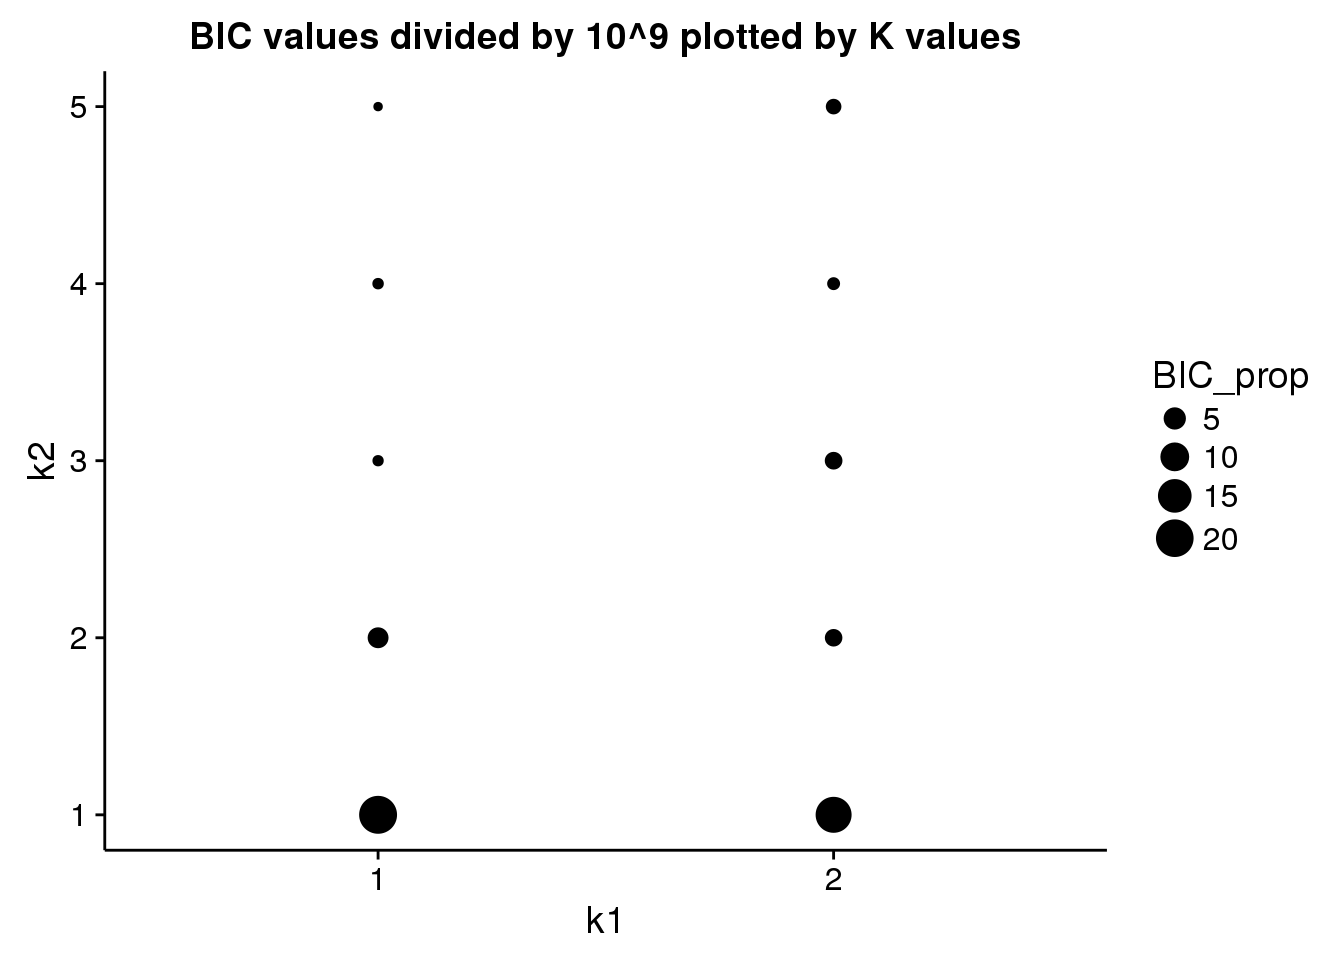
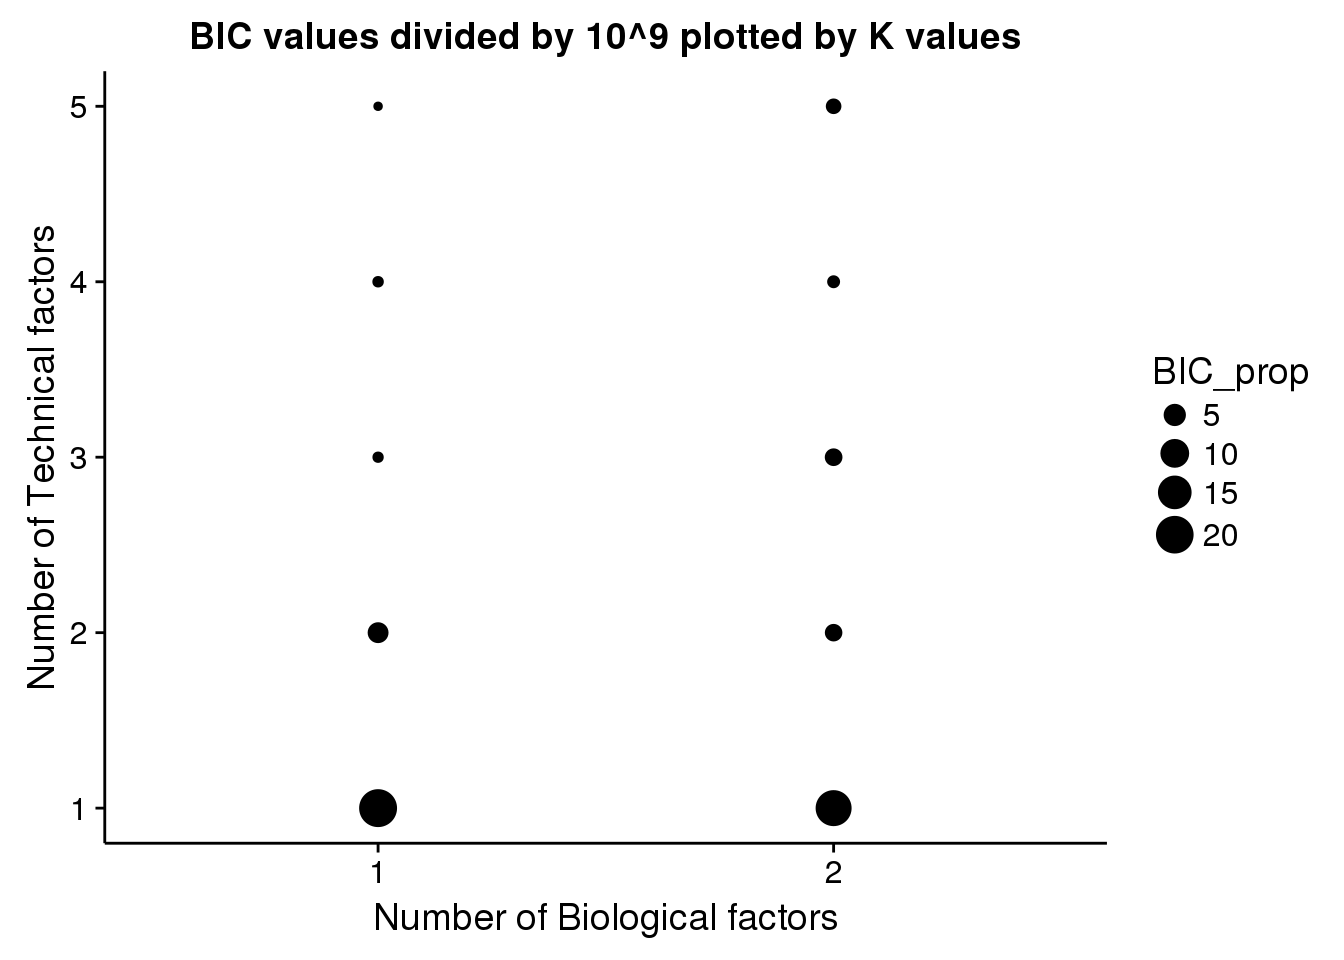
Build site.

diff --git a/docs/sc_only_ind.html b/docs/sc_only_ind.html
@@ -11,9 +11,8 @@
 
 <meta name="author" content="Briana Mittleman" />
 
-<meta name="date" content="2017-03-02" />
 
-<title>Explore biological significance of single cell only genes</title>
+<title>Look at single cell only genes by individual</title>
 
 <script src="site_libs/jquery-1.11.3/jquery.min.js"></script>
 <meta name="viewport" content="width=device-width, initial-scale=1" />
@@ -302,9 +301,9 @@ div.tocify {
 
 
 
-<h1 class="title toc-ignore">Explore biological significance of single cell only genes</h1>
+<h1 class="title toc-ignore">Look at single cell only genes by individual</h1>
 <h4 class="author"><em>Briana Mittleman</em></h4>
-<h4 class="date"><em>2017-03-02</em></h4>
+<h4 class="date"><em>2017/03/03</em></h4>
 
 </div>
 
@@ -336,91 +335,102 @@ molecules &lt;- read.table(&quot;../../singleCellSeq/data/molecules.txt&quot;, h
 reads_bulk &lt;- read.table(&quot;../../singleCellSeq/data/reads-bulk.txt&quot;, header = TRUE, stringsAsFactors = FALSE)</code></pre>
 <p>Create vectors with the list of genes in each set.</p>
 <pre class="r"><code>genes_observed_reads_bulk &lt;- rownames(reads_bulk)[rowSums(reads_bulk) &gt; 0]
+genes_observed_reads_bulk_ENSG= genes_observed_reads_bulk[grep(&quot;ERCC&quot;, genes_observed_reads_bulk, invert = TRUE)]
 genes_observed_reads &lt;- rownames(reads)[rowSums(reads) &gt; 0]
 genes_observed_molecules &lt;- rownames(molecules)[rowSums(molecules) &gt; 0]
-genes_observed_molecules_ENSG &lt;- genes_observed_molecules[grep(&quot;ERCC&quot;, genes_observed_molecules, invert = TRUE)]
-write.table(genes_observed_molecules_ENSG, file = &quot;../output/gene-observed-molecules-ensg.txt&quot;, quote = FALSE, row.names = FALSE)
-single_cell_observed &lt;- union(genes_observed_molecules, genes_observed_molecules)</code></pre>
+genes_observed_molecules_ENSG &lt;- genes_observed_molecules[grep(&quot;ERCC&quot;, genes_observed_molecules, invert = TRUE)]</code></pre>
 <div id="genes-only-in-single-cell-molecules" class="section level4">
 <h4>Genes only in single cell molecules</h4>
-<pre class="r"><code>gene_onlysinglecell &lt;- setdiff(single_cell_observed,genes_observed_reads_bulk)
+<pre class="r"><code>gene_onlysinglecell_ENSG &lt;- setdiff(genes_observed_molecules_ENSG,genes_observed_reads_bulk_ENSG)
 #subset molecules by these genes  
 molecules_df= data.frame(molecules)
-molecules_only_SC &lt;- molecules_df[rownames(molecules_df) %in% gene_onlysinglecell,]</code></pre>
+molecules_only_SC_ENSG &lt;- molecules_df[rownames(molecules_df) %in% gene_onlysinglecell_ENSG,]
+dim(molecules_only_SC_ENSG)</code></pre>
+<pre><code>[1] 956 864</code></pre>
 <p>Count number of cells we see these genes in</p>
-<pre class="r"><code>non_zero_cells &lt;- apply(molecules_only_SC, 1, function(c)sum(c!=0))
+<pre class="r"><code>non_zero_cells_ENSG &lt;- apply(molecules_only_SC_ENSG, 1, function(c)sum(c!=0))
 
-molecules_with_nonzero &lt;- cbind(molecules_only_SC, non_zero_cells)
+molecules_with_nonzero_ENSG &lt;- cbind(molecules_only_SC_ENSG, non_zero_cells_ENSG)
 
-summary(molecules_with_nonzero$non_zero_cells)</code></pre>
+summary(molecules_with_nonzero_ENSG$non_zero_cells_ENSG)</code></pre>
 <pre><code>   Min. 1st Qu.  Median    Mean 3rd Qu.    Max. 
-   1.00    1.00    2.00    3.11    3.50  112.00 </code></pre>
-<pre class="r"><code>genes_most_expressed= row.names(molecules_with_nonzero[molecules_with_nonzero$non_zero_cells &gt; 20, 1:3])
-genes_most_expressed</code></pre>
-<pre><code>[1] &quot;ENSG00000121318&quot; &quot;ENSG00000011465&quot; &quot;ENSG00000214324&quot; &quot;ENSG00000204296&quot;
-[5] &quot;ENSG00000230062&quot; &quot;ENSG00000176571&quot; &quot;ERCC-00048&quot;      &quot;ERCC-00083&quot;     
-[9] &quot;ERCC-00164&quot;     </code></pre>
-<pre class="r"><code>ensembl &lt;- useMart(host = &quot;grch37.ensembl.org&quot;,
-                   biomart = &quot;ENSEMBL_MART_ENSEMBL&quot;,
-                   dataset = &quot;hsapiens_gene_ensembl&quot;)
-
-genes_most_expressed_info &lt;- getBM(attributes = c(&quot;ensembl_gene_id&quot;, &quot;chromosome_name&quot;,
-                                                 &quot;external_gene_name&quot;, &quot;transcript_count&quot;,&quot;description&quot;), filters = &quot;ensembl_gene_id&quot;, values = genes_most_expressed[grep(&quot;ENSG&quot;, genes_most_expressed)],mart = ensembl)
-genes_most_expressed_info</code></pre>
-<pre><code>  ensembl_gene_id chromosome_name external_gene_name transcript_count
-1 ENSG00000011465              12                DCN               22
-2 ENSG00000121318              12            TAS2R10                1
-3 ENSG00000176571               8              CNBD1                6
-4 ENSG00000204296               6            C6orf10                8
-5 ENSG00000214324               3            C3orf56                1
-6 ENSG00000230062               6            ANKRD66                3
-                                                                   description
-1                                        decorin [Source:HGNC Symbol;Acc:2705]
-2             taste receptor, type 2, member 10 [Source:HGNC Symbol;Acc:14918]
-3 cyclic nucleotide binding domain containing 1 [Source:HGNC Symbol;Acc:26663]
-4            chromosome 6 open reading frame 10 [Source:HGNC Symbol;Acc:13922]
-5            chromosome 3 open reading frame 56 [Source:HGNC Symbol;Acc:32481]
-6                      ankyrin repeat domain 66 [Source:HGNC Symbol;Acc:44669]</code></pre>
-<pre class="r"><code>genes_not_singleton= row.names(molecules_with_nonzero[molecules_with_nonzero$non_zero_cells &gt; 1, 1:3])</code></pre>
-<pre class="r"><code>not_singleton_genes_info &lt;- getBM(attributes = c(&quot;ensembl_gene_id&quot;, &quot;chromosome_name&quot;,
-                                                 &quot;external_gene_name&quot;, &quot;transcript_count&quot;,&quot;description&quot;), filters = &quot;ensembl_gene_id&quot;, values = genes_not_singleton[grep(&quot;ENSG&quot;, genes_not_singleton)],mart = ensembl)
-head(not_singleton_genes_info)</code></pre>
-<pre><code>  ensembl_gene_id chromosome_name external_gene_name transcript_count
-1 ENSG00000005981               7               ASB4                3
-2 ENSG00000007216              17            SLC13A2                8
-3 ENSG00000007908               1               SELE               11
-4 ENSG00000011465              12                DCN               22
-5 ENSG00000012504              12              NR1H4                9
-6 ENSG00000019169               2              MARCO                4
-                                                                                                     description
-1                                        ankyrin repeat and SOCS box containing 4 [Source:HGNC Symbol;Acc:16009]
-2 solute carrier family 13 (sodium-dependent dicarboxylate transporter), member 2 [Source:HGNC Symbol;Acc:10917]
-3                                                                      selectin E [Source:HGNC Symbol;Acc:10718]
-4                                                                          decorin [Source:HGNC Symbol;Acc:2705]
-5                                  nuclear receptor subfamily 1, group H, member 4 [Source:HGNC Symbol;Acc:7967]
-6                                   macrophage receptor with collagenous structure [Source:HGNC Symbol;Acc:6895]</code></pre>
+  1.000   1.000   2.000   2.899   3.000  45.000 </code></pre>
 </div>
 </div>
-<div id="go-analysis" class="section level3">
-<h3>GO analysis</h3>
-<p><a href="https://github.com/jdblischak/singleCellSeq/blob/master/analysis/cv-adjusted-profile-annotation.Rmd" class="uri">https://github.com/jdblischak/singleCellSeq/blob/master/analysis/cv-adjusted-profile-annotation.Rmd</a><br />
-<a href="https://github.com/jhsiao999/Humanzee/blob/master/R/GOtest.R" class="uri">https://github.com/jhsiao999/Humanzee/blob/master/R/GOtest.R</a></p>
-<pre class="r"><code>not_singleton_genes_GO&lt;- GOtest(my_ensembl_gene_universe = rownames(molecules),
-                      my_ensembl_gene_test =row.names(molecules_with_nonzero[molecules_with_nonzero$non_zero_cells &gt; 1, ]),
-                      pval_cutoff = 1, ontology=c(&quot;BP&quot;) )
+<div id="individual-19098" class="section level3">
+<h3>Individual 19098</h3>
+<pre class="r"><code>molecules_SC_ENSG_19098= molecules_with_nonzero_ENSG[,grep(&quot;19098&quot;, colnames(molecules_with_nonzero_ENSG))]
+# this is a dataframe for the sc only genes in 19098
+dim(molecules_SC_ENSG_19098)</code></pre>
+<pre><code>[1] 956 288</code></pre>
+<pre class="r"><code>non_zero_cells_ENSG_19098 &lt;- apply(molecules_SC_ENSG_19098, 1, function(c)sum(c!=0))
+molecules_with_nonzero_ENSG_19098 &lt;- cbind(molecules_SC_ENSG_19098, non_zero_cells_ENSG_19098)
 
+summary(molecules_with_nonzero_ENSG_19098$non_zero_cells_ENSG_19098)</code></pre>
+<pre><code>   Min. 1st Qu.  Median    Mean 3rd Qu.    Max. 
+ 0.0000  0.0000  1.0000  0.8923  1.0000 13.0000 </code></pre>
+<pre class="r"><code>plot(molecules_with_nonzero_ENSG_19098$non_zero_cells_ENSG_19098)</code></pre>
+<p><img src="figure/sc_only_ind.Rmd/unnamed-chunk-6-1.png" width="672" style="display: block; margin: auto;" /></p>
+</div>
+<div id="individual-19101" class="section level3">
+<h3>Individual 19101</h3>
+<pre class="r"><code>molecules_SC_ENSG_19101= molecules_with_nonzero_ENSG[,grep(&quot;19101&quot;, colnames(molecules_with_nonzero_ENSG))]
+# this is a dataframe for the sc only genes in 19101
 
-gene_names &lt;- row.names(molecules_with_nonzero[molecules_with_nonzero$non_zero_cells &gt; 1, ])
-gene_names_ensg &lt;- gene_names[grep(&quot;ERCC&quot;, gene_names, invert = TRUE)]
-write.table(gene_names_ensg, file = &quot;../output/gene-ensg.txt&quot;, quote = FALSE)
+dim(molecules_SC_ENSG_19101)</code></pre>
+<pre><code>[1] 956 288</code></pre>
+<pre class="r"><code>non_zero_cells_ENSG_19101 &lt;- apply(molecules_SC_ENSG_19101, 1, function(c)sum(c!=0))
+molecules_with_nonzero_ENSG_19101 &lt;- cbind(molecules_SC_ENSG_19101, non_zero_cells_ENSG_19101)
 
-save(not_singleton_genes_GO,file=&quot;../data/not_singleton_genes_GO.rda&quot;)</code></pre>
-<pre class="r"><code>load(&quot;../data/not_singleton_genes_GO.rda&quot;)
-goterms_SC &lt;- summary(not_singleton_genes_GO$GO$BP, pvalue = .05)
-goterms_SC</code></pre>
-<pre><code>        Length          Class           Mode 
-             1 GOHyperGResult             S4 </code></pre>
-<p>Online GO analysis: <a href="http://consensuspathdb.org" class="uri">http://consensuspathdb.org</a></p>
+summary(molecules_with_nonzero_ENSG_19101$non_zero_cells_ENSG_19101)</code></pre>
+<pre><code>   Min. 1st Qu.  Median    Mean 3rd Qu.    Max. 
+  0.000   0.000   1.000   1.124   2.000  22.000 </code></pre>
+<pre class="r"><code>plot(molecules_with_nonzero_ENSG_19101$non_zero_cells_ENSG_19101)</code></pre>
+<p><img src="figure/sc_only_ind.Rmd/unnamed-chunk-7-1.png" width="672" style="display: block; margin: auto;" /></p>
+</div>
+<div id="individual-19239" class="section level3">
+<h3>Individual 19239</h3>
+<pre class="r"><code>molecules_SC_ENSG_19239= molecules_with_nonzero_ENSG[,grep(&quot;19239&quot;, colnames(molecules_with_nonzero_ENSG))]
+# this is a dataframe for the sc only genes in 19239
+
+dim(molecules_SC_ENSG_19239)</code></pre>
+<pre><code>[1] 956 288</code></pre>
+<pre class="r"><code>non_zero_cells_ENSG_19239 &lt;- apply(molecules_SC_ENSG_19239, 1, function(c)sum(c!=0))
+molecules_with_nonzero_ENSG_19239 &lt;- cbind(molecules_SC_ENSG_19239, non_zero_cells_ENSG_19239)
+
+summary(molecules_with_nonzero_ENSG_19239$non_zero_cells_ENSG_19239)</code></pre>
+<pre><code>   Min. 1st Qu.  Median    Mean 3rd Qu.    Max. 
+ 0.0000  0.0000  0.0000  0.8818  1.0000 34.0000 </code></pre>
+<pre class="r"><code>plot(molecules_with_nonzero_ENSG_19239$non_zero_cells_ENSG_19239)</code></pre>
+<p><img src="figure/sc_only_ind.Rmd/unnamed-chunk-8-1.png" width="672" style="display: block; margin: auto;" /></p>
+</div>
+<div id="compare-individuals" class="section level3">
+<h3>Compare individuals</h3>
+<p>I want to look at the genes that are expressed in these individuals and see if there are genes that are unique to one individual</p>
+<ul>
+<li><p>find genes with non_zero &gt; 1 (exclude singleton)</p></li>
+<li><p>make a list of these genes</p></li>
+<li><p>create a ven diagram with these genes</p></li>
+</ul>
+<pre class="r"><code>#19098
+genes_not_singleton_19098= row.names(molecules_with_nonzero_ENSG_19098[molecules_with_nonzero_ENSG_19098$non_zero_cells_ENSG_19098 &gt; 1, ])
+length(genes_not_singleton_19098)</code></pre>
+<pre><code>[1] 181</code></pre>
+<pre class="r"><code>#19101
+genes_not_singleton_19101= row.names(molecules_with_nonzero_ENSG_19101[molecules_with_nonzero_ENSG_19101$non_zero_cells_ENSG_19101 &gt; 1, ])
+length(genes_not_singleton_19101)</code></pre>
+<pre><code>[1] 241</code></pre>
+<pre class="r"><code>#19239
+genes_not_singleton_19239= row.names(molecules_with_nonzero_ENSG_19239[molecules_with_nonzero_ENSG_19239$non_zero_cells_ENSG_19239 &gt; 1, ])
+length(genes_not_singleton_19239)</code></pre>
+<pre><code>[1] 168</code></pre>
+<pre class="r"><code>non_sing_venn &lt;- venn.diagram(x = list(&quot;19098&quot; = genes_not_singleton_19098,
+                                    &quot;19101&quot; = genes_not_singleton_19101,
+                                    &quot;19239&quot; = genes_not_singleton_19239),
+                           filename = NULL, euler.d = FALSE, scaled = FALSE)
+grid.newpage()
+grid.draw(non_sing_venn)</code></pre>
+<p><img src="figure/sc_only_ind.Rmd/ven%20diagram-1.png" width="672" style="display: block; margin: auto;" /></p>
 </div>
 
 <hr>

diff --git a/docs/apply_citrus_singlecell.html b/docs/apply_citrus_singlecell.html
@@ -309,8 +309,8 @@ div.tocify {
 </div>
 
 
-<p><strong>Last updated:</strong> 2017-03-02</p>
-<p><strong>Code version:</strong> 3ce427b</p>
+<p><strong>Last updated:</strong> 2017-03-03</p>
+<p><strong>Code version:</strong> 6da6895</p>
 <p>In this analysis I will use the scPLS method in the Citrus package to regress technical factor out of the single cell data. I will use filtered molecule counts for the first individual in the dataset.</p>
 <pre class="r"><code>library(&quot;Citrus&quot;)
 library(reshape2)
@@ -394,7 +394,7 @@ ff &lt;- ggplot2.barplot(data = df, xName = &quot;Quantile&quot;, yName = &quot;
 
 ff</code></pre>
 <pre><code>Warning: Removed 3 rows containing missing values (position_stack).</code></pre>
-<p><img src="figure/apply_citrus_singlecell.Rmd/unnamed-chunk-67-1.png" width="672" style="display: block; margin: auto;" /></p>
+<p><img src="figure/apply_citrus_singlecell.Rmd/unnamed-chunk-48-1.png" width="672" style="display: block; margin: auto;" /></p>
 <pre class="r"><code>celltypes &lt;- str_split_fixed(row.names(molecules_cpm_19101t), pattern= &quot;.[A-H]&quot;, n=3)[,2]
 
 pcs &lt;- prcomp(molecules_cpm_19101t, center = TRUE)
@@ -420,7 +420,7 @@ ytitle = &quot;PC2&quot;, mainTitle = &quot;ERCC technical effect removed&quot;,
 <div id="plot-output" class="section level3">
 <h3>Plot output</h3>
 <pre class="r"><code>plot_grid(ff1,ff2)</code></pre>
-<p><img src="figure/apply_citrus_singlecell.Rmd/unnamed-chunk-69-1.png" width="672" style="display: block; margin: auto;" /></p>
+<p><img src="figure/apply_citrus_singlecell.Rmd/unnamed-chunk-50-1.png" width="672" style="display: block; margin: auto;" /></p>
 </div>
 <div id="try-more-k-values" class="section level3">
 <h3>Try more k values</h3>
@@ -469,7 +469,7 @@ vary_k =data.frame(vary_k)</code></pre>
 6  3  2 -6.026e+08
 7  3  2 -6.026e+08</code></pre>
 <pre class="r"><code>ggplot2.scatterplot(data=vary_k, xName = &quot;k1&quot;, yName = &quot;k2&quot;, mapping=aes(size =(&quot;likelihood&quot;)),  backgroundColor=&quot;white&quot;)</code></pre>
-<p><img src="figure/apply_citrus_singlecell.Rmd/unnamed-chunk-70-1.png" width="672" style="display: block; margin: auto;" /></p>
+<p><img src="figure/apply_citrus_singlecell.Rmd/unnamed-chunk-51-1.png" width="672" style="display: block; margin: auto;" /></p>
 </div>
 <div id="do-something-to-compare-likliehood" class="section level3">
 <h3>Do something to compare likliehood</h3>
@@ -487,7 +487,7 @@ ytitle = &quot;PC2&quot;, mainTitle = &quot;ERCC technical effect removed, k2=2&
 &quot;bold&quot;, &quot;black&quot;), ytitleFont = c(10, &quot;bold&quot;, &quot;black&quot;), xTickLabelFont=c(10, &quot;bold&quot;, &quot;black&quot;), yTickLabelFont= c(10, &quot;bold&quot;, &quot;black&quot;), legendTitle= &quot;Cell type&quot;, legendTitleFont= c(10, &quot;bold&quot;, &quot;black&quot;), legendTextFont = c(10, &quot;bold&quot;, &quot;black&quot;) )
 
 ff3</code></pre>
-<p><img src="figure/apply_citrus_singlecell.Rmd/unnamed-chunk-71-1.png" width="672" style="display: block; margin: auto;" /></p>
+<p><img src="figure/apply_citrus_singlecell.Rmd/unnamed-chunk-52-1.png" width="672" style="display: block; margin: auto;" /></p>
 <ul>
 <li>need k1=1 and k2=1:5</li>
 </ul>
@@ -524,7 +524,7 @@ change4=(mean(summary(scPLS_tech.1.5$Likelihood))- mean(summary(scPLS_tech.1.4$L
 
 L_change= c(abs(change1), abs(change2), abs(change3), abs(change4))
 plot(L_change, ylab=&quot;Absolute value change in Likelihood&quot;, main=&quot;Compare k2 values 1-5&quot;)</code></pre>
-<p><img src="figure/apply_citrus_singlecell.Rmd/unnamed-chunk-72-1.png" width="672" style="display: block; margin: auto;" /></p>
+<p><img src="figure/apply_citrus_singlecell.Rmd/unnamed-chunk-53-1.png" width="672" style="display: block; margin: auto;" /></p>
 <p>Biggest improvement in likelihood is between k2=1 and k2=2.</p>
 <p><strong>DON’T USE THIS ANALYSIS FOR MODEL SELECTION, USE THE MIN BIC</strong></p>
 </div>
@@ -543,7 +543,7 @@ Bic5= log(ncells) * (6) - (2 * (mean(summary(scPLS_tech.1.5$Likelihood))))
 Bic_likelihood= c(Bic1,Bic2, Bic3, Bic4, Bic5)
 
 plot(Bic_likelihood, ylab=&quot;Bayesian information criterion&quot;, xlab=&quot;k2 value&quot;, main=&quot;With a constant k1 value, BIC decreases with k2 increase&quot;)</code></pre>
-<p><img src="figure/apply_citrus_singlecell.Rmd/unnamed-chunk-73-1.png" width="672" style="display: block; margin: auto;" /></p>
+<p><img src="figure/apply_citrus_singlecell.Rmd/unnamed-chunk-54-1.png" width="672" style="display: block; margin: auto;" /></p>
 <pre class="r"><code>which.min(Bic_likelihood)</code></pre>
 <pre><code>[1] 5</code></pre>
 <p>The smallest BIC is achieved when k2=5.</p>
@@ -587,7 +587,7 @@ groupName = &quot;Type&quot;, size = 5, backgroundColor = &quot;white&quot;, gro
 ytitle = &quot;PC2&quot;, mainTitle = &quot;k2=5&quot;, removePanelGrid = TRUE, removePanelBorder = TRUE, setShapeByGroupName = TRUE, showLegend = TRUE, mainTitleFont = c(10, &quot;bold&quot;, &quot;black&quot;), xtitleFont = c(10,
 &quot;bold&quot;, &quot;black&quot;), ytitleFont = c(10, &quot;bold&quot;, &quot;black&quot;), xTickLabelFont=c(10, &quot;bold&quot;, &quot;black&quot;), yTickLabelFont= c(10, &quot;bold&quot;, &quot;black&quot;), legendTitle= &quot;Cell type&quot;, legendTitleFont= c(10, &quot;bold&quot;, &quot;black&quot;), legendTextFont = c(10, &quot;bold&quot;, &quot;black&quot;) )</code></pre>
 <pre class="r"><code>plot_grid(ff1, ff2, ff3, ff4, ff5, ff6, nrow = 3 )</code></pre>
-<p><img src="figure/apply_citrus_singlecell.Rmd/unnamed-chunk-74-1.png" width="672" style="display: block; margin: auto;" /></p>
+<p><img src="figure/apply_citrus_singlecell.Rmd/unnamed-chunk-55-1.png" width="672" style="display: block; margin: auto;" /></p>
 </div>
 <div id="run-k12-values" class="section level3">
 <h3>Run k1=2 values</h3>
@@ -638,8 +638,10 @@ x2.5  2  5   1.9892</code></pre>
   ggtitle(&quot;BIC values divided by 10^9 plotted by K values&quot;) +
   scale_x_discrete(&quot;Number of Biological factors&quot;, limits=c(&quot;1&quot;,&quot;2&quot;)) +
   ylab(&quot; Number of Technical factors &quot;) </code></pre>
-<p><img src="figure/apply_citrus_singlecell.Rmd/unnamed-chunk-78-1.png" width="672" style="display: block; margin: auto;" /></p>
-<pre class="r"><code> ##NEED TO ADD LABELS            </code></pre>
+<p><img src="figure/apply_citrus_singlecell.Rmd/unnamed-chunk-59-1.png" width="672" style="display: block; margin: auto;" /> ###Final model selection</p>
+<p>Final model: k1=1 and k2=5</p>
+<pre class="r"><code>ff6</code></pre>
+<p><img src="figure/apply_citrus_singlecell.Rmd/unnamed-chunk-60-1.png" width="672" style="display: block; margin: auto;" /></p>
 </div>
 
 <hr>

diff --git a/docs/explore_bulkvsingle_gene.html b/docs/explore_bulkvsingle_gene.html
@@ -309,8 +309,8 @@ div.tocify {
 </div>
 
 
-<p><strong>Last updated:</strong> 2017-03-02</p>
-<p><strong>Code version:</strong> d865a5a</p>
+<p><strong>Last updated:</strong> 2017-03-03</p>
+<p><strong>Code version:</strong> 6da6895</p>
 <p>This analysis looks into genes that were only detected in either the single cell or bulk sequencing. Contrary to many’s intuitiion there were more genes detected using single cell sequencing than when we pooled cells together. I wanted to explore the expression levels of these genes, variability in expression levels, and the proportion of single cells where these genes were detected. For the bulk specific genes I wanted to see how their expression compares to the expression levels of the genes found in both analysis. Information found here could provide information about bias or provide evidence for the importance of single cell sequencing to detect gene expression.</p>
 <div id="pull-in-genes-lists" class="section level3">
 <h3>Pull in genes lists</h3>

diff --git a/docs/index.html b/docs/index.html
@@ -220,6 +220,8 @@ $(document).ready(function () {
 <li><p><a href="genome_wide_data_comparison.html">Genome wide read count comparison between analysis</a></p></li>
 <li><p><a href="explore_bulkvsingle_gene.html">Explore genes only found in bulk or single cells</a></p></li>
 <li><p><a href="simulate_bulk_genes.html">Simulate bulk samples from Single cell gene list</a></p></li>
+<li><p><a href="bio_singlecellony.html">Explore biological significance of single cell only genes</a></p></li>
+<li><p><a href="sc_only_ind.html">Explore single cell only genes by individual</a></p></li>
 </ul>
 <p>Continue the Gilad single cell anaylsis:</p>
 <ul>
